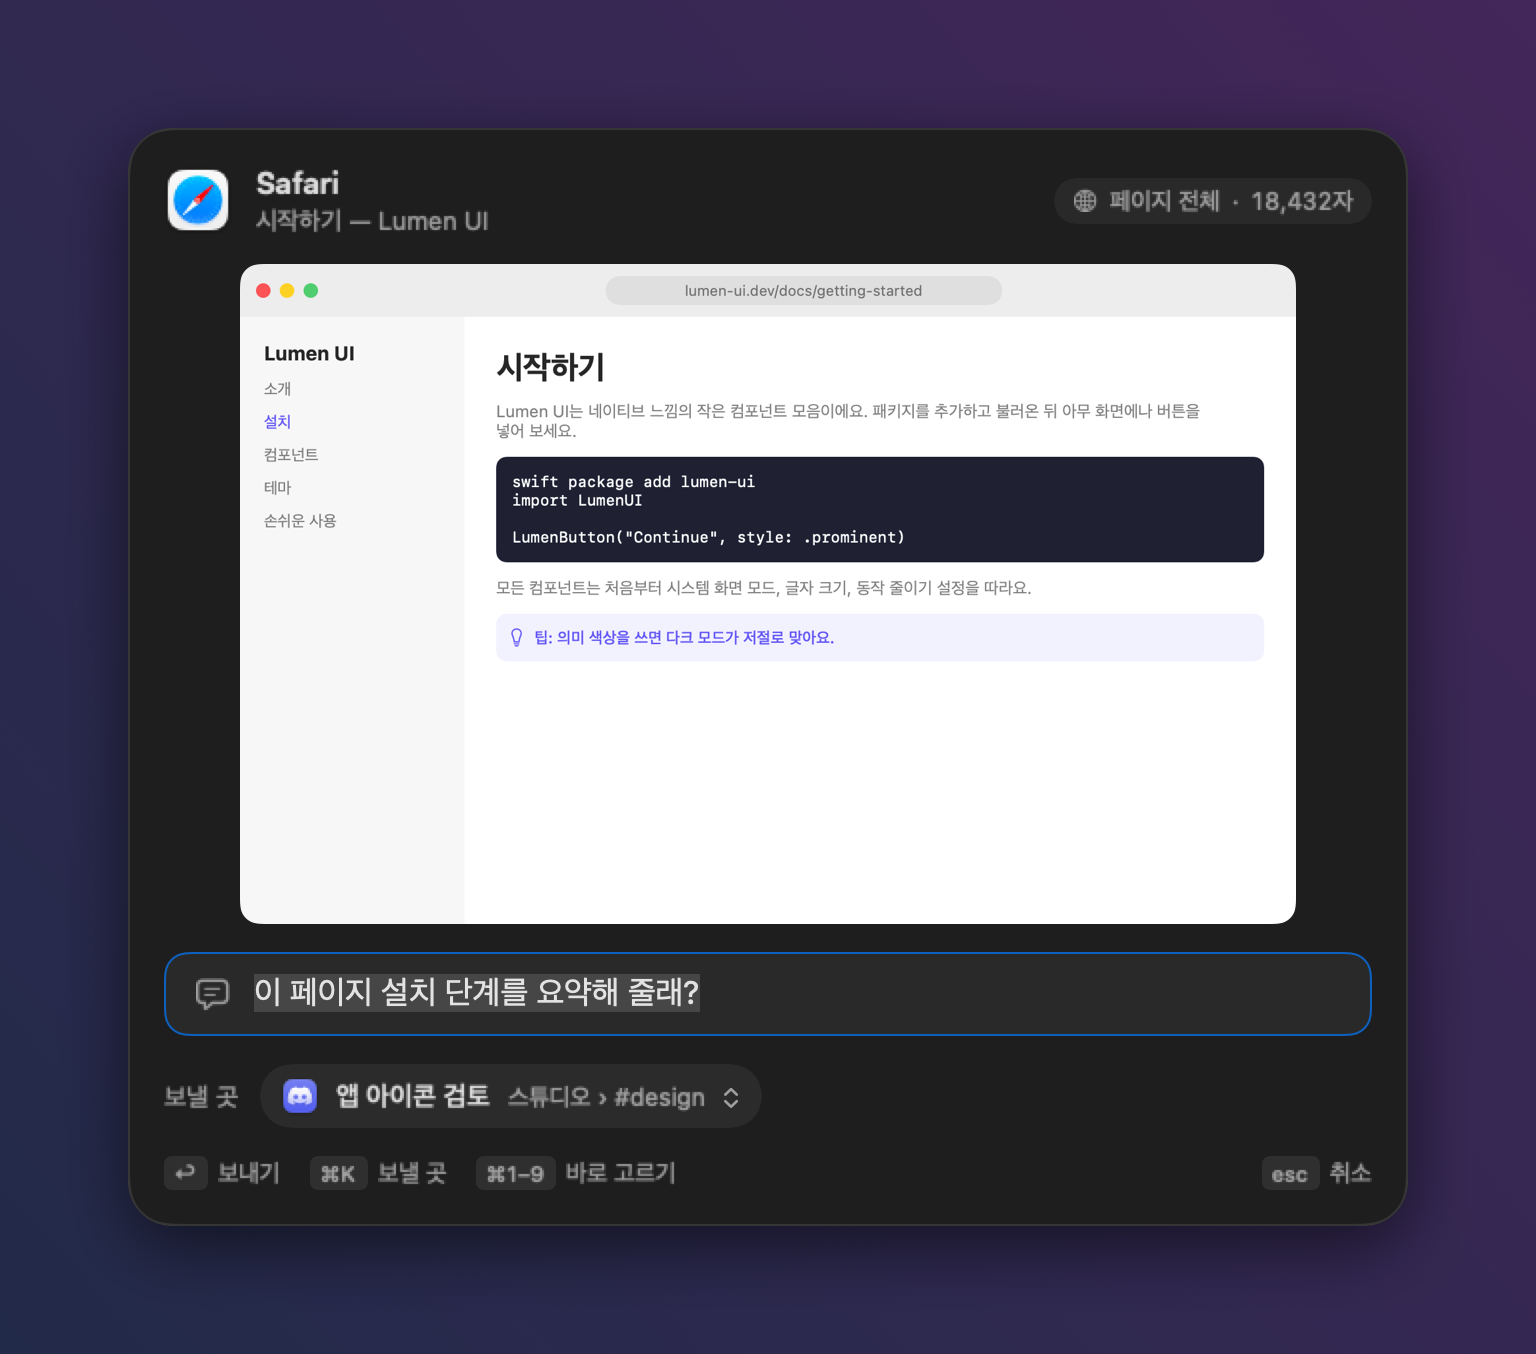
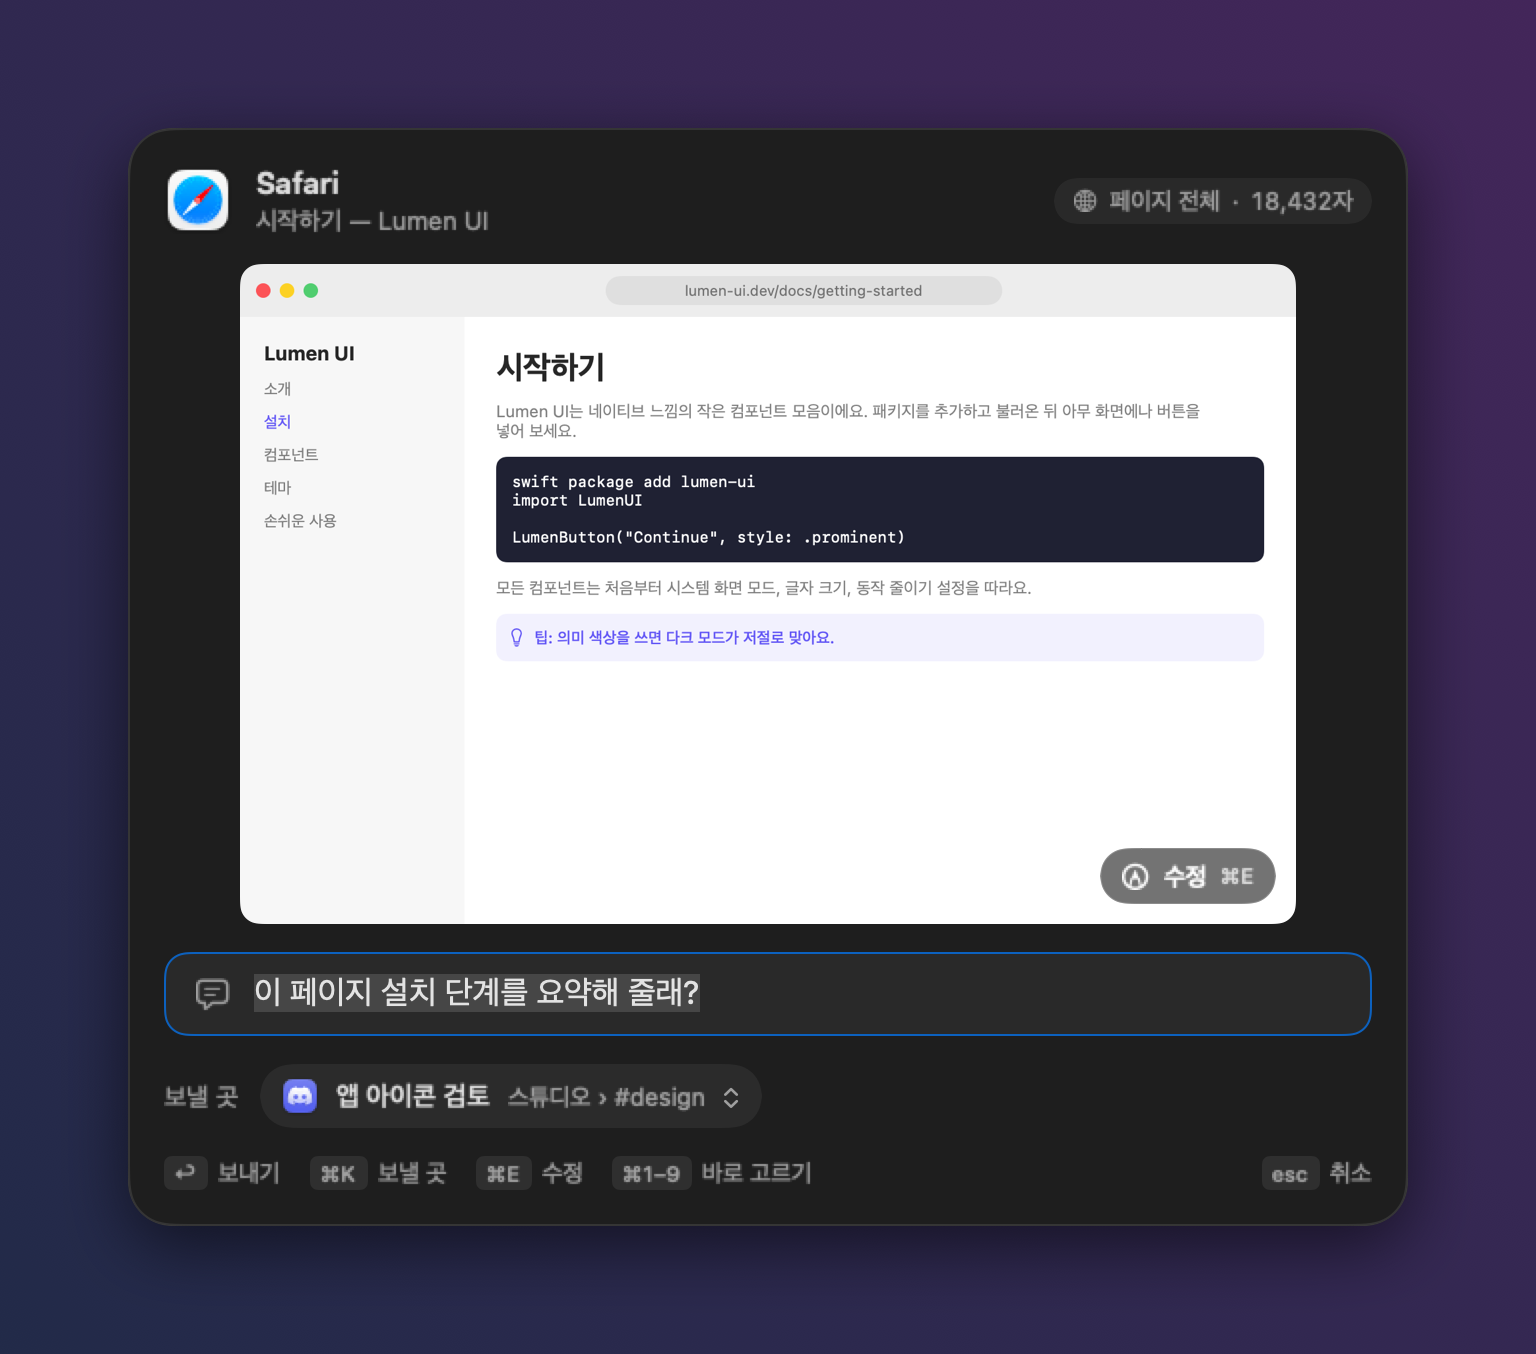
docs: describe editing a capture, refresh panel screenshots

Changed region(s): [[0.7188, 0.6204, 0.8438, 0.6824], [0.3438, 0.8375, 0.5312, 0.8685]]

diff --git a/README.md b/README.md
@@ -27,13 +27,34 @@
 - **A large, accurate preview.** The window is captured with ScreenCaptureKit at full resolution, without its shadow, and shown at its real aspect ratio.
 - **The whole page, not just the pixels.** In Safari and Chromium browsers, Appshot reads the entire page text, its URL, and your selection. In other apps, it walks the Accessibility tree, which includes text scrolled out of view. When neither works, it falls back to on-device OCR of the screenshot. See [What Appshot reads](#what-appshot-reads).
 - **Send it anywhere.** Your Discord assistant, the clipboard, a folder, the Share menu, a custom command, or straight into ChatGPT, Claude, Codex, Notes, or Slack. See [Send targets](#send-targets).
+- **Crop and mark up before you send.** Press ⌘E or click **Edit** on the preview to crop it or add arrows, boxes, pen strokes, text, and pixelation right in the panel, then press ↩ to send the edited image. If you skip it, nothing changes. See [Editing a capture](#editing-a-capture).
 - **Real destinations.** Pick a Discord server, channel, or active thread by name, search it, and keep your recent choices at the top. Your DM can carry its own name, like "My DM".
-- **Keyboard first.** ↩ sends, ⌘K opens the destination list, ↑↓ moves, ⌘D stars a favorite, ⌘1–⌘9 picks quickly, and esc goes back or cancels.
+- **Keyboard first.** ↩ sends, ⌘K opens the destination list, ⌘E edits the screenshot, ↑↓ moves, ⌘D stars a favorite, ⌘1–⌘9 picks quickly, and esc goes back or cancels.
 - **English and Korean.** The app follows your macOS language.
 - **Nothing leaves your Mac.** Appshot writes files to a local folder. Your assistant picks them up from there. The app holds no tokens and makes no network calls of its own.
 
 <p align="center"><img src="docs/picker-en-light.png" width="720" alt="Destination picker, light mode"></p>
 <p align="center"><img src="docs/picker-en-dark.png" width="720" alt="Destination picker, dark mode"></p>
+
+## Editing a capture
+
+Press **⌘E** (or click **Edit** on the preview) and the preview becomes an editor in the same panel. Everything works from the keyboard:
+
+| Key | Tool or action |
+| --- | --- |
+| C | Crop. Drag a new area, drag the handles, or drag inside to move it. Hold ⇧ to keep the ratio. ↩ applies the crop, esc puts the previous one back. |
+| P · A · R | Pen, arrow (⇧ snaps to 45°), rectangle (⇧ makes a square) |
+| T | Text. Click where it goes, type, then ↩. |
+| B | Pixelate an area. When part of the image is pixelated, Appshot leaves the window text out and sends only the image and your note. |
+| 1–6 | Red, yellow, green, blue, black, white |
+| ⌘Z · ⇧⌘Z | Undo · redo |
+| ↩ | Send the edited image |
+| esc · ⌘E | Leave the editor and keep the edits |
+
+The full-resolution screenshot is edited, not the preview, so the image you send stays sharp.
+
+<p align="center"><img src="docs/edit-en-light.png" width="720" alt="Editing a capture, light mode"></p>
+<p align="center"><img src="docs/edit-en-dark.png" width="720" alt="Editing a capture, dark mode"></p>
 
 ## Send targets
 
@@ -171,6 +192,7 @@ The preselected destination is the channel of the last message your assistant ha
 ## Privacy
 
 - **What is saved:** the screenshot, the window text, your note, and metadata, all in `inboxDir` on your Mac. Also stored locally: the Discord destination list (`~/Library/Caches/Appshot`) and your recent destinations and shortcut (app preferences).
+- **Pixelated captures:** when you pixelate part of the screenshot, the window text, URL, and document path are left out of what Appshot saves and pastes.
 - **What is sent:** nothing, by Appshot itself. Your assistant decides what to post after reading the folder.
 - **What is never read:** password fields.
 - **Repository hygiene:** `scripts/prepush-check.sh` runs gitleaks and scans for emails, home paths, Discord-style IDs, stray images, and personal strings before every push.
